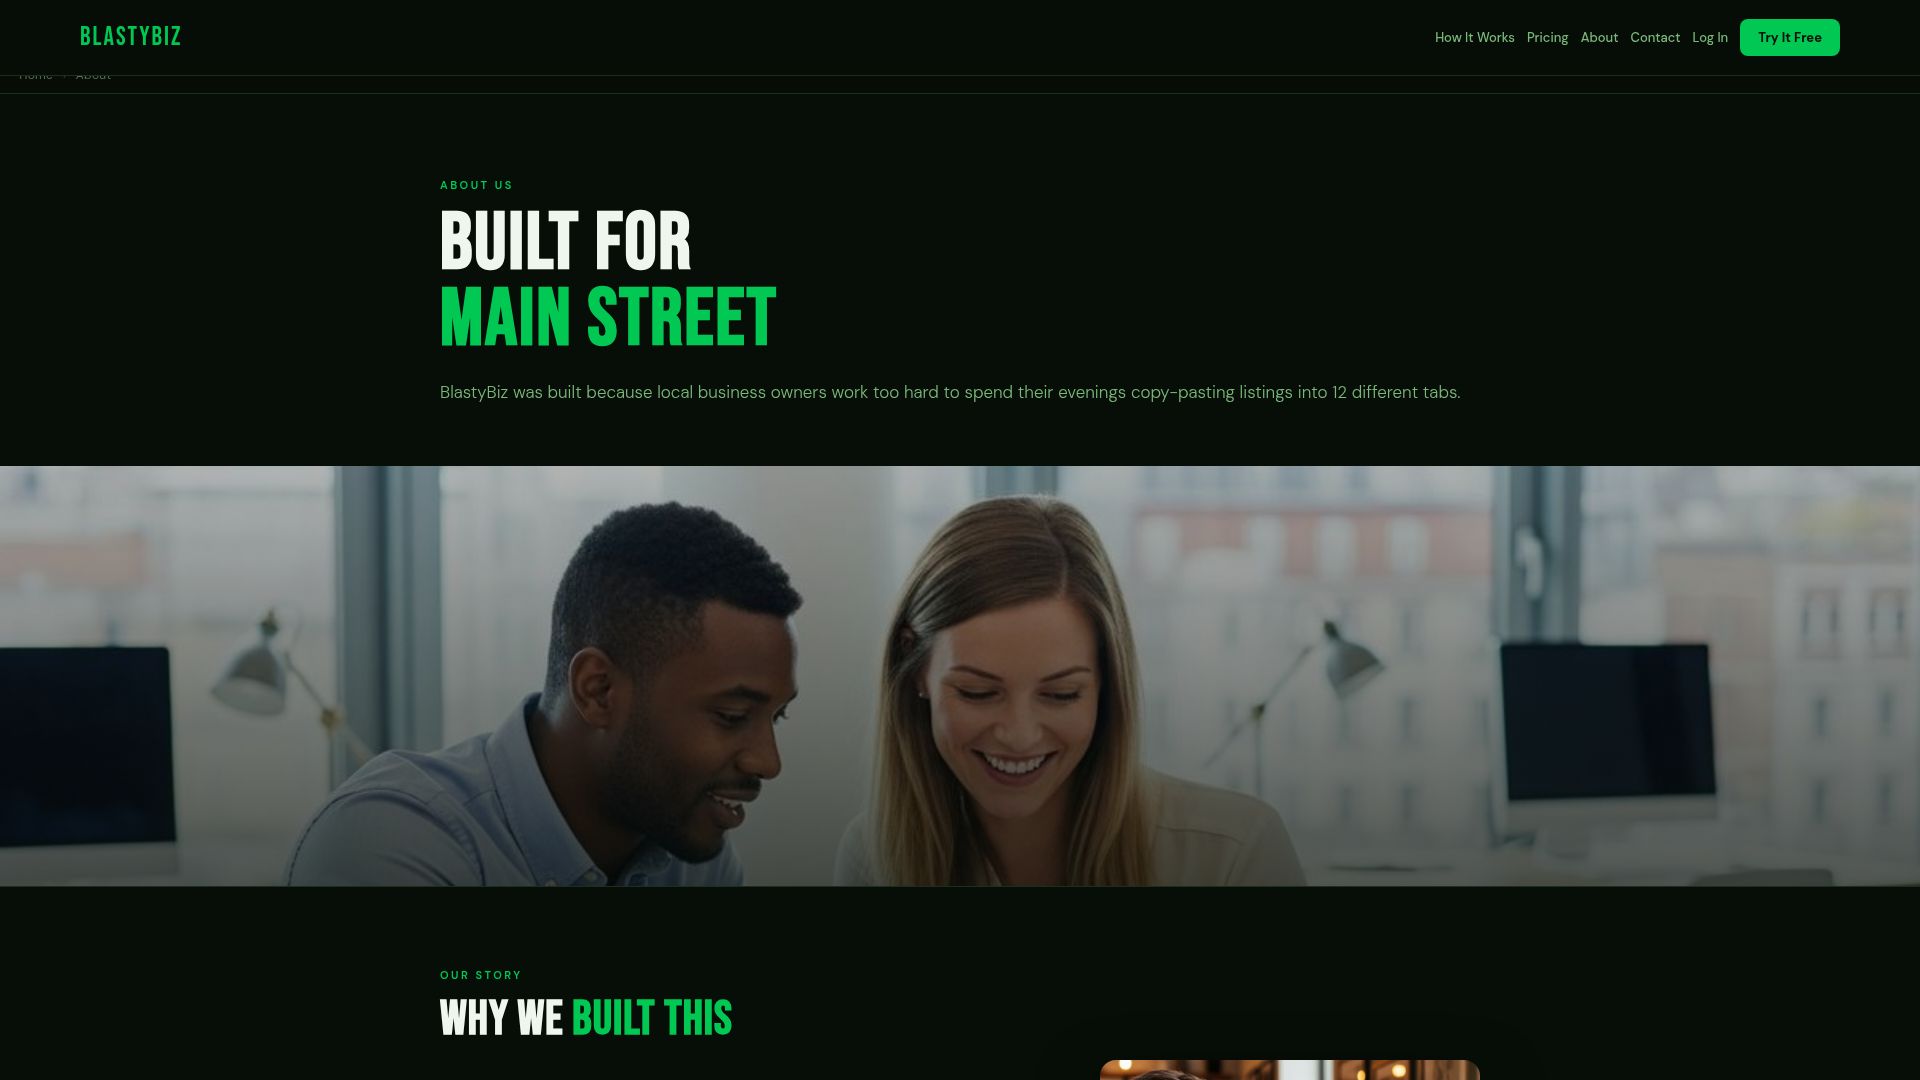
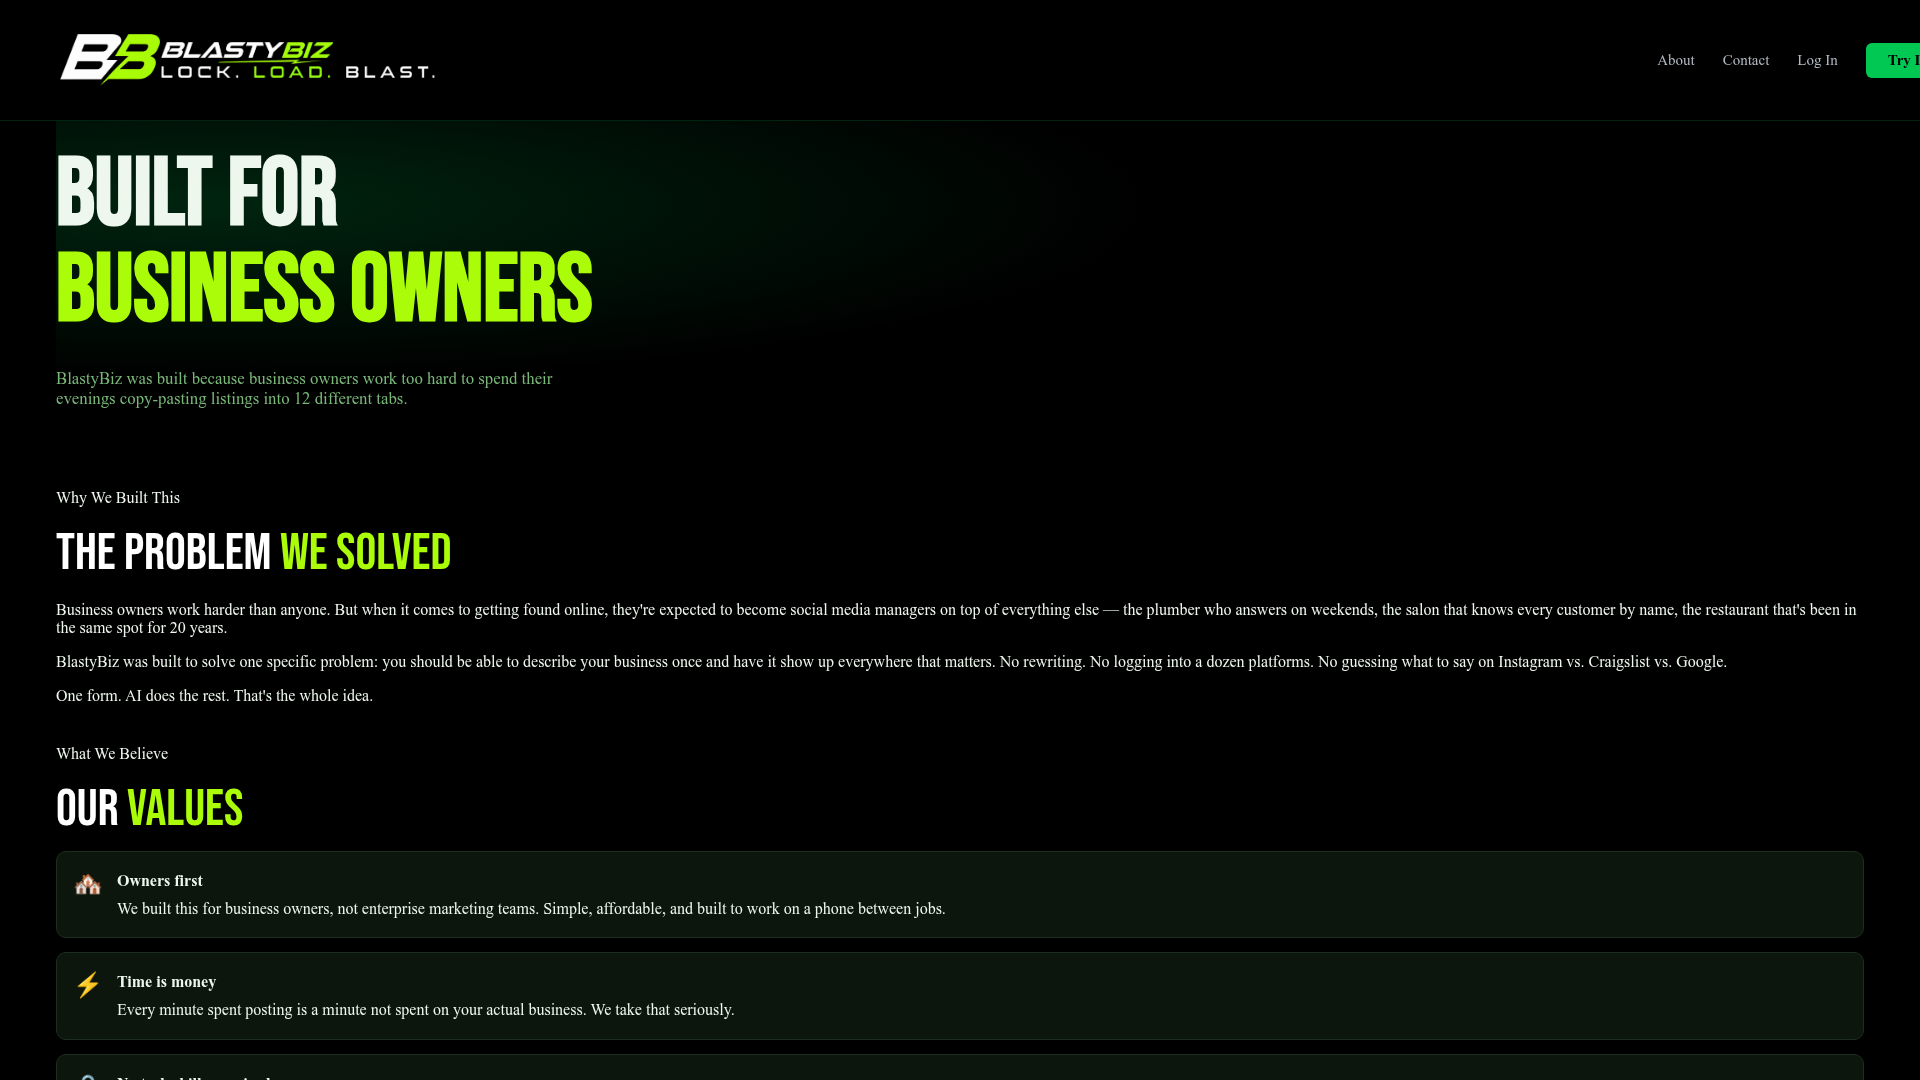
Adjust spacing to correctly align content below the site header
Update CSS to properly account for the fixed header's height on both mobile and desktop, ensuring content is displayed correctly on all pages by updating the global stylesheet and versioning.

Replit-Commit-Author: Agent
Replit-Commit-Session-Id: 6d8415c2-6760-4c66-91d8-028a7081f5e4
Replit-Commit-Checkpoint-Type: full_checkpoint
Replit-Commit-Event-Id: a0a0c845-1ac8-4391-91d1-e3d102096daf
Replit-Helium-Checkpoint-Created: true

diff --git a/artifacts/api-server/public/global-style.css b/artifacts/api-server/public/global-style.css
@@ -222,11 +222,16 @@ body.home-page .header__badge-bar { display: flex; }
 /* Hide old nav bar on pages using the new site header */
 body.has-site-header nav:not(.header__nav):not(.header__mobile-menu) { display: none; }
 
-/* Clear fixed site header + sticky footer */
-body.has-site-header .main  { padding-top: 56px; }
+/* Clear fixed site header + sticky footer
+   Mobile  (≤767px): header icon 70px + 0px nav padding  = 70px header
+   Desktop (≥768px): header icon 100px + 20px nav padding = 120px header */
+body.has-site-header .main  { padding-top: 72px; }
 @media (min-width: 600px) {
   body.has-site-header      { display: flex; flex-direction: column; min-height: 100vh; }
-  body.has-site-header .main { flex: 1; padding-top: 80px; }
+  body.has-site-header .main { flex: 1; padding-top: 72px; }
+}
+@media (min-width: 768px) {
+  body.has-site-header .main { padding-top: 124px; }
 }
 
 /* Auth state — JS adds/removes body.logged-in */

diff --git a/artifacts/api-server/public/BlastyBiz-Home.html b/artifacts/api-server/public/BlastyBiz-Home.html
@@ -4,7 +4,7 @@
   <link rel="icon" type="image/x-icon" href="favicon.ico">
 <meta charset="UTF-8"/>
 <meta name="viewport" content="width=device-width, initial-scale=1.0"/>
-<link rel="stylesheet" href="global-style.css?v=114" />
+<link rel="stylesheet" href="global-style.css?v=115" />
 <title>BlastyBiz — Lock. Load. Blast.</title>
 <link href="https://fonts.googleapis.com/css2?family=Bebas+Neue&family=DM+Sans:ital,wght@0,300;0,400;0,500;0,600;0,700;1,400&display=swap" rel="stylesheet"/>
 </head>

diff --git a/artifacts/api-server/public/BlastyBiz-Contact.html b/artifacts/api-server/public/BlastyBiz-Contact.html
@@ -6,7 +6,7 @@
 <meta name="viewport" content="width=device-width, initial-scale=1.0"/>
 <title>Contact — BlastyBiz</title>
 <link href="https://fonts.googleapis.com/css2?family=Bebas+Neue&family=DM+Sans:ital,wght@0,300;0,400;0,500;0,600;0,700;1,400&display=swap" rel="stylesheet"/>
-<link rel="stylesheet" href="global-style.css?v=114"/>
+<link rel="stylesheet" href="global-style.css?v=115"/>
 </head>
 <body class="has-site-header">
 <div id="header__inject"></div>

diff --git a/artifacts/api-server/public/BlastyBiz-About.html b/artifacts/api-server/public/BlastyBiz-About.html
@@ -6,7 +6,7 @@
 <meta name="viewport" content="width=device-width, initial-scale=1.0"/>
 <title>About — BlastyBiz</title>
 <link href="https://fonts.googleapis.com/css2?family=Bebas+Neue&family=DM+Sans:ital,wght@0,300;0,400;0,500;0,600;0,700;1,400&display=swap" rel="stylesheet"/>
-<link rel="stylesheet" href="global-style.css?v=114"/>
+<link rel="stylesheet" href="global-style.css?v=115"/>
 </head>
 <body class="has-site-header">
 <div id="header__inject"></div>

diff --git a/artifacts/api-server/public/BlastyBiz-Terms.html b/artifacts/api-server/public/BlastyBiz-Terms.html
@@ -6,7 +6,7 @@
 <meta name="viewport" content="width=device-width, initial-scale=1.0" />
 <title>Terms of Service — BlastyBiz</title>
 <link href="https://fonts.googleapis.com/css2?family=Bebas+Neue&family=DM+Sans:wght@300;400;500;600&display=swap" rel="stylesheet" />
-<link rel="stylesheet" href="global-style.css?v=114"/>
+<link rel="stylesheet" href="global-style.css?v=115"/>
 </head>
 <body class="has-site-header">
 <div id="header__inject"></div>

diff --git a/artifacts/api-server/public/BlastyBiz-Privacy.html b/artifacts/api-server/public/BlastyBiz-Privacy.html
@@ -6,7 +6,7 @@
 <meta name="viewport" content="width=device-width, initial-scale=1.0" />
 <title>Privacy Policy — BlastyBiz</title>
 <link href="https://fonts.googleapis.com/css2?family=Bebas+Neue&family=DM+Sans:wght@300;400;500;600&display=swap" rel="stylesheet" />
-<link rel="stylesheet" href="global-style.css?v=114"/>
+<link rel="stylesheet" href="global-style.css?v=115"/>
 </head>
 <body class="has-site-header">
 <div id="header__inject"></div>
